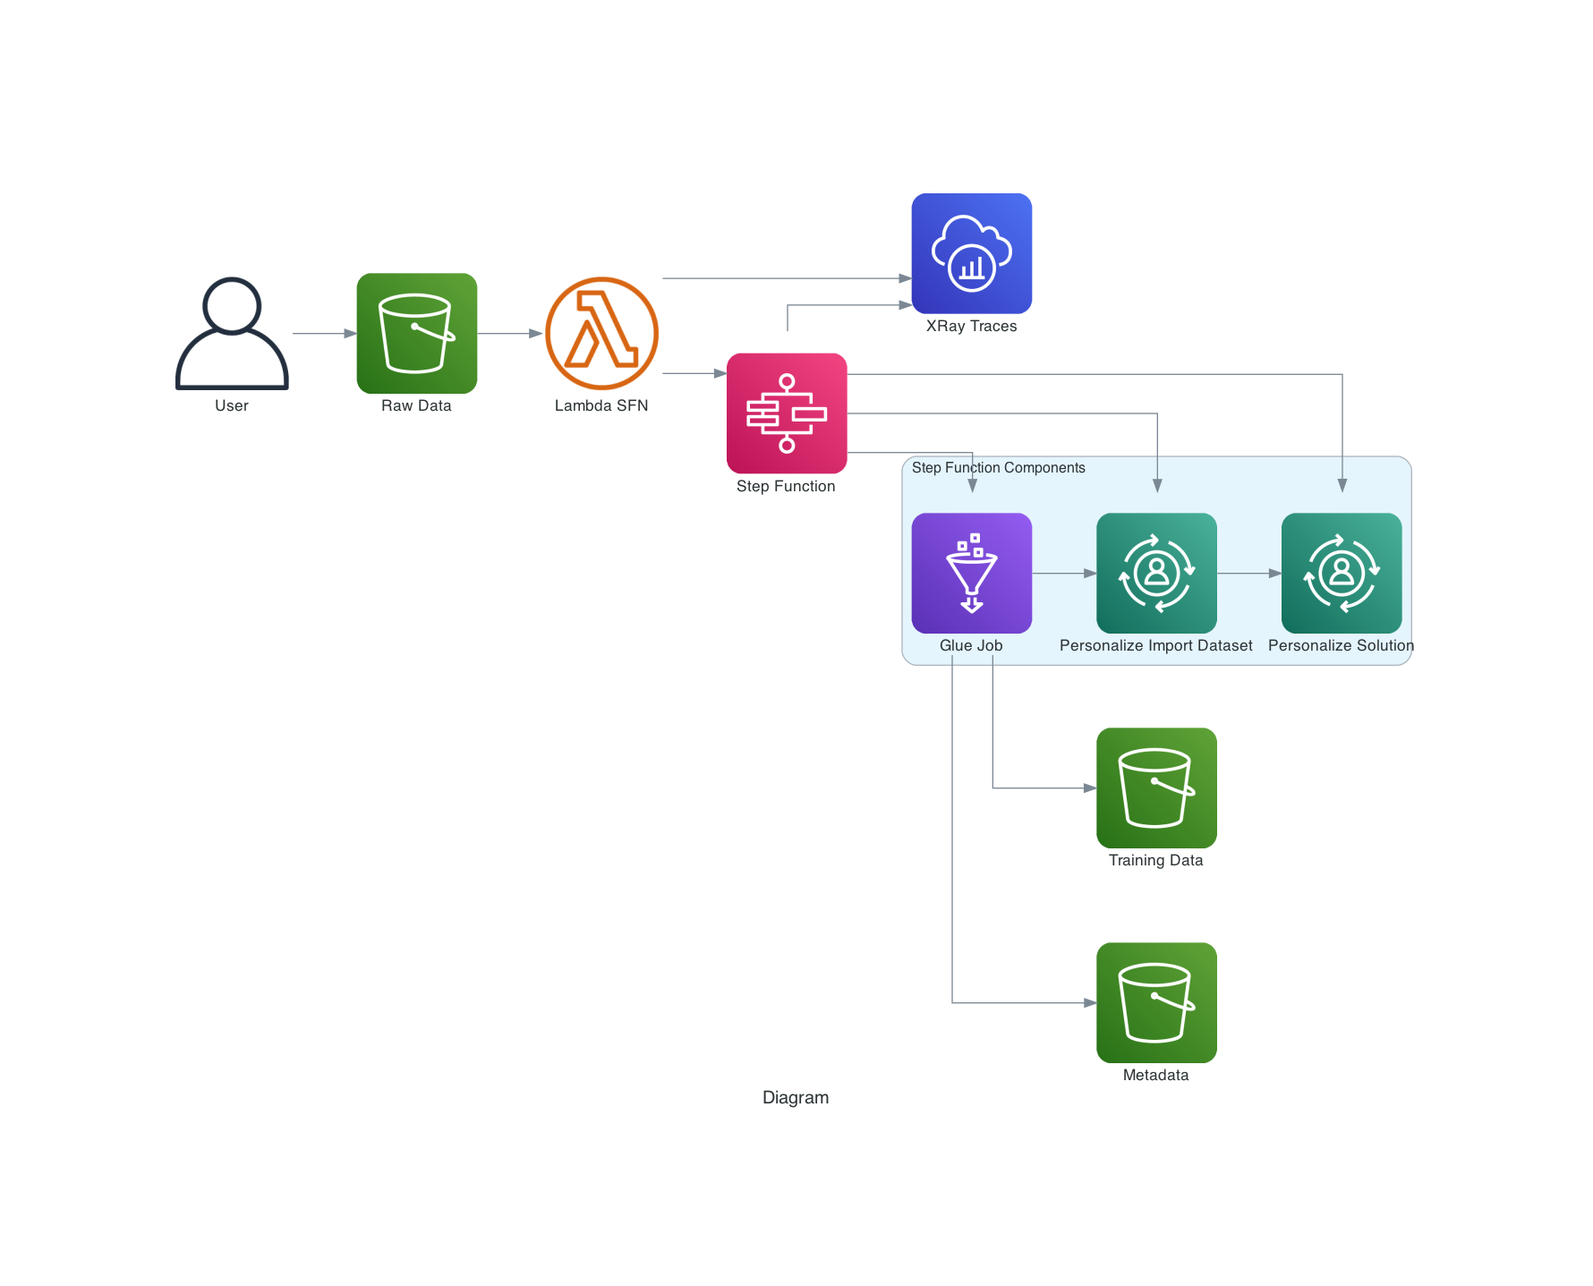
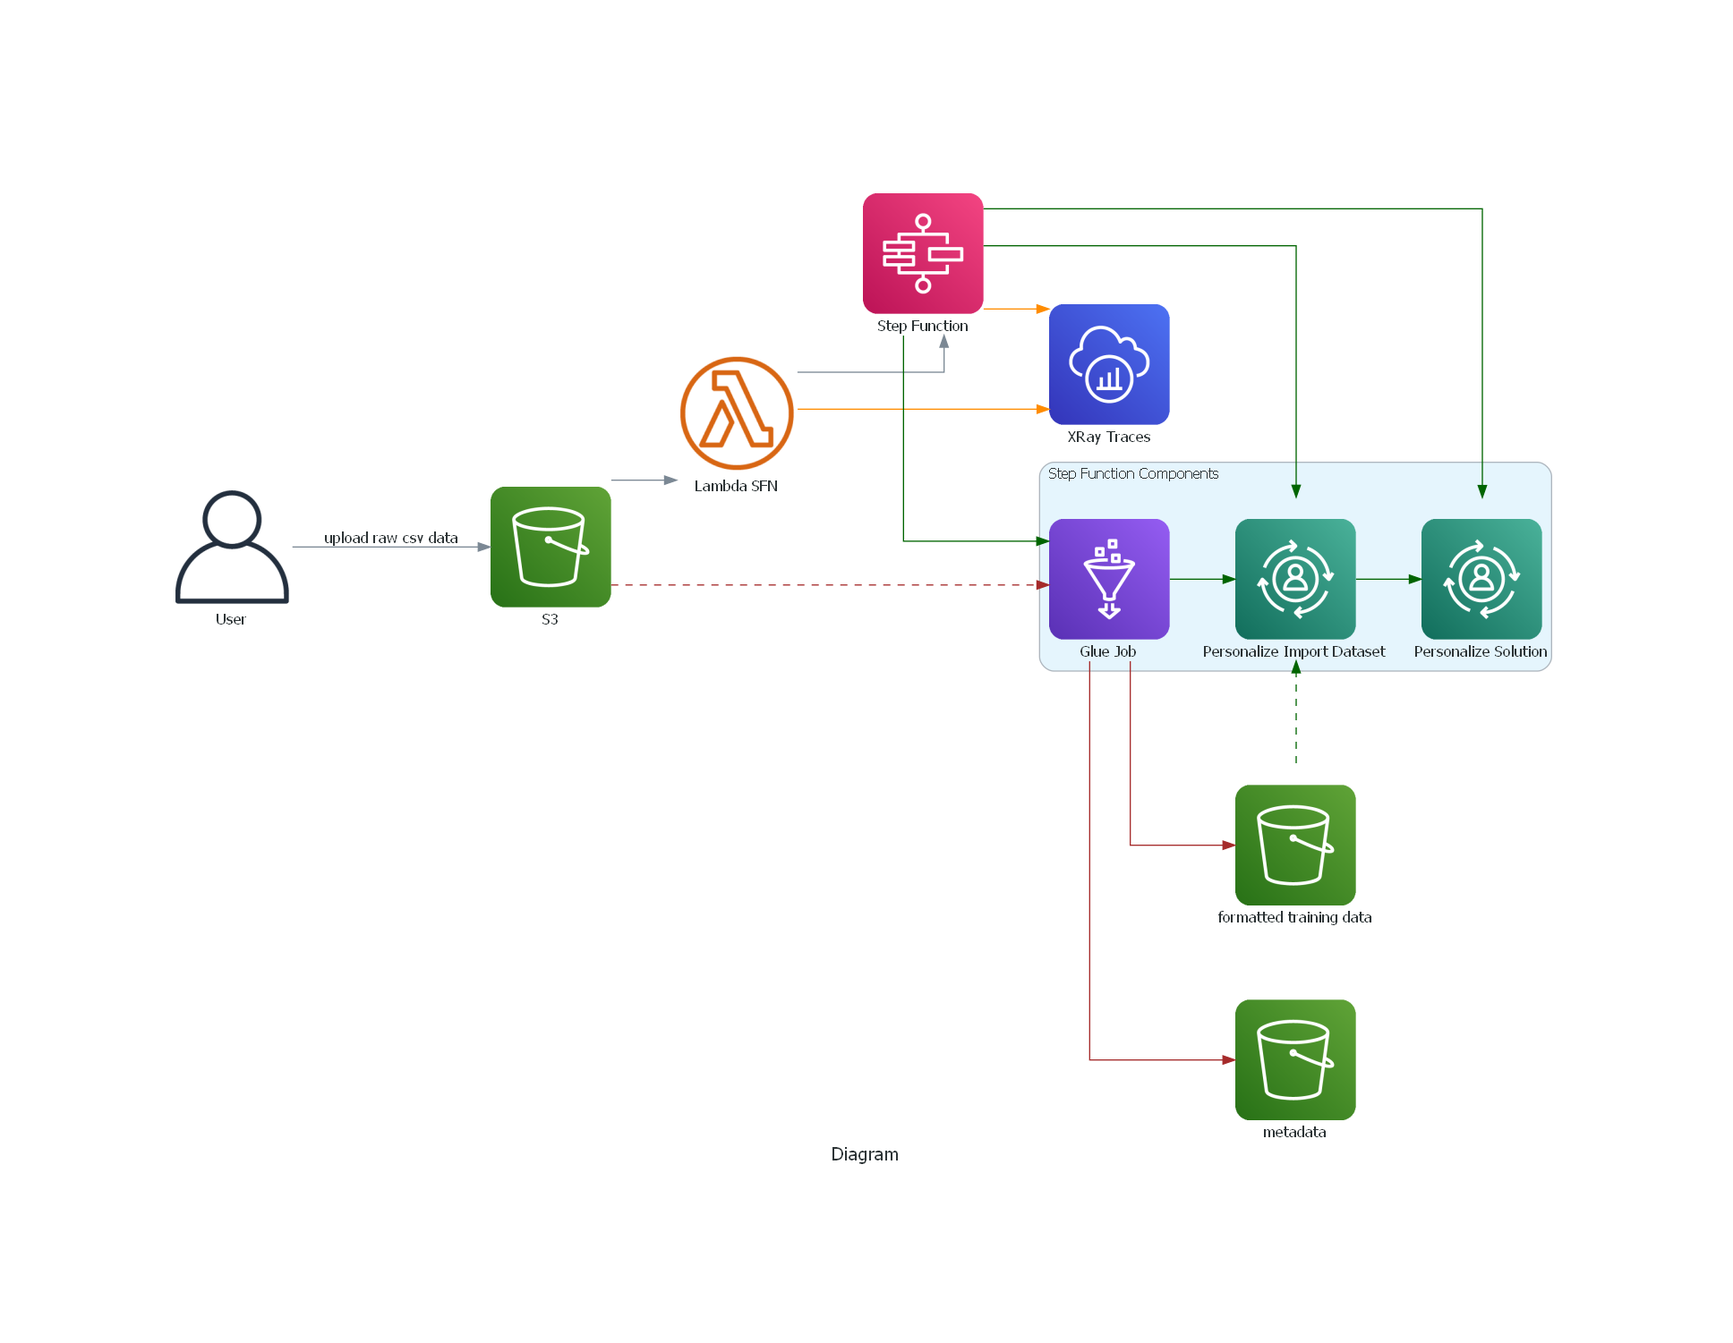
add more screenshots, add to readme, modify aws diagrams script for train architecture and cf template add param

diff --git a/screenshots/aws_diagrams/personalize_train.py b/screenshots/aws_diagrams/personalize_train.py
@@ -2,7 +2,6 @@ from diagrams import Diagram, Cluster, Edge
 from diagrams.aws.compute import LambdaFunction
 from diagrams.aws.storage import SimpleStorageServiceS3
 from diagrams.aws.ml import Personalize
-from diagrams.aws.integration import SQS
 from diagrams.aws.analytics import Glue
 from diagrams.aws.devtools import XRay
 from diagrams.aws.general import User
@@ -11,9 +10,9 @@ from diagrams.aws.integration import StepFunctions
 
 with Diagram("Diagram", show=False, direction="LR"):
     Lambda_SFN = LambdaFunction("Lambda SFN")
-    S31 = SimpleStorageServiceS3("Raw Data")
-    S32 = SimpleStorageServiceS3("Training Data")
-    S33 = SimpleStorageServiceS3("Metadata")
+    S31 = SimpleStorageServiceS3("S3")
+    S32 = SimpleStorageServiceS3("formatted training data")
+    S33 = SimpleStorageServiceS3("metadata")
     User1 = User("User")
     Xray = XRay("XRay Traces")
     StepFunctions = StepFunctions("Step Function")
@@ -23,11 +22,15 @@ with Diagram("Diagram", show=False, direction="LR"):
         ImportDataset = Personalize("Personalize Import Dataset")
         Solution = Personalize("Personalize Solution")
         sfn_components = [Glue, ImportDataset, Solution]
-        Glue >> ImportDataset >> Solution
-        Glue >> S32
-        Glue >> S33
+        S31 >> Edge(color="brown", style="dashed") >> Glue
+        Glue >> Edge(color="darkgreen") >> ImportDataset >> Edge(
+            color="darkgreen"
+        ) >> Solution
+        Glue >> Edge(color="brown") >> S32
+        Glue >> Edge(color="brown") >> S33
+        S32 >> Edge(color="darkgreen", style="dashed") >> ImportDataset
 
-    User1 >> S31 >> Lambda_SFN >> StepFunctions
-    StepFunctions >> sfn_components
-    StepFunctions >> Xray
-    Lambda_SFN >> Xray
+    User1 >> Edge(label="upload raw csv data") >> S31 >> Lambda_SFN >> StepFunctions
+    StepFunctions >> Edge(color="darkgreen") >> sfn_components
+    StepFunctions >> Edge(color="darkorange") >> Xray
+    Lambda_SFN >> Edge(color="darkorange") >> Xray

diff --git a/projects/personalize/README.md b/projects/personalize/README.md
@@ -27,7 +27,7 @@ Archive:  datasets/personalize/ml-25m.zip
 
 ```
 
- ## Loading data into S3 
+## Loading data into S3 
 
 For this tutorial, we will be using the full 25m MovieLens dataset (25 million ratings and one million tag applications applied to 62,000 movies by 162,000 users).
 This can result in a large bill when training a personalize solution, depending on the recipe used (> $100).
@@ -38,7 +38,6 @@ The following example sets Status=Enabled to enable Transfer Acceleration on a b
 
 ```
 $ aws s3api put-bucket-accelerate-configuration --bucket recommendation-sample-data --accelerate-configuration Status=Enabled
-
 ```
 
 It's a best practice to use aws s3 commands (such as aws s3 cp) for multipart uploads and downloads, because these aws s3 commands automatically perform multipart uploading and downloading based on the file size
@@ -54,6 +53,7 @@ The following example uploads a file to a bucket enabled for Transfer Accelerati
 $ aws configure set default.s3.use_accelerate_endpoint true
 $ aws configure set default.s3.max_concurrent_requests 20
 $ aws s3 cp datasets/personalize/ml-25m/ s3://recommendation-sample-data/movie-lens/raw_data/ --region us-east-1 --recursive --endpoint-url https://recommendation-sample-data.s3-accelerate.amazonaws.com
+
 
 upload: datasets\personalize\ml-25m\links.csv to s3://recommendation-sample-data/movie-lens/links.csv
 upload: datasets\personalize\ml-25m\input\movies.csv to s3://recommendation-sample-data/movie-lens/movies.csv
@@ -71,30 +71,16 @@ the query accordingly. Run the following commands from root of the repo
 
 ```
 $ aws s3 cp step_functions/personalize-definition.json s3://recommendation-sample-data/movie-lens/personalize-definition.json
-
-upload: step_functions/personalize-definition.json to s3://recommendation-sample-data/movie-lens/personalize-definition.json
-
-```
-
-```
 $ aws s3 cp lambdas/trigger_glue_personalize.zip s3://recommendation-sample-data/movie-lens/lambda/trigger_glue_personalize.zip
-
-upload: lambdas\trigger_glue_personalize.zip to s3://recommendation-sample-data/movie-lens/lambda/trigger_glue_personalize.zip
-
 ```
+
+If you have not configured transfer acceleration for the default glue assets bucket, then you can set to false before running `cp` command as below.
+Otherwise, you will get the following error: *An error occurred (InvalidRequest) when calling the PutObject operation: S3 Transfer Acceleration is not configured on this bucket*
 
 ```
 $ aws configure set default.s3.use_accelerate_endpoint false
 $ aws s3 cp projects/personalize/glue/Personalize_Glue_Script.py s3://aws-glue-assets-376337229415-us-east-1/scripts/Personalize_Glue_Script.py
-
-upload: projects\personalize\glue\Personalize_Glue_Script.py to s3://aws-glue-assets-376337229415-us-east-1/scripts/Personalize_Glue_Script.py
-
 ```
-
-If not configured transfer acceleration for the default glue assets bucket then can set to false before running cp command.
-Otherwise, you will get the error
-`An error occurred (InvalidRequest) when calling the PutObject operation: S3 Transfer Acceleration is not configured on this bucket`
-
 
 ## CloudFormation Templates
 
@@ -142,12 +128,10 @@ sfn name `GlueETLPersonalizeTraining`
 
 We need to configure S3 event notifications for train and prediction workflows:
 
-* Training workflow
-
+* **Training workflow**
 - S3 to lambda notification (for put raw data object event) to trigger the step function execution for the train workflow
 
-* Batch/RealTime Recommendations
-
+* **Batch/RealTime Recommendations**
 1. S3 to Lambda notification for triggering Personalize Batch Job when batch sample data object but into S3 bucket prefix
 2. S3 to Lambda notification for triggering lambda to transform output of batch job added to S3. 
 3. S3 notification to SNS topic, when the output of lambda transform lands in S3 bucket. We have configured email as subscriber 
@@ -183,7 +167,7 @@ INFO:__main__:HTTPStatusCode: 200
 INFO:__main__:RequestId: Q0BCATSW52X1V299
 ```
 
-Note: There is currently not support for notifications to FIFO type SNS topics. 
+**Note**: There is currently not support for notifications to FIFO type SNS topics. 
 
 ## Trigger Workflow for Training Solution
 
@@ -258,7 +242,7 @@ Once the notebook has finished running, you should see two folders in `s3://reco
 Each of these will contain a csv file corresponding to the interactions data (which will be used for training solution) and 
 additional metadata (i.e. columns with movie genres, ratings etc)
 
-NOTE: The notebook by default samples half the number of rows in the ratings csv which is still around 12.5 million rows.
+**Note**: The notebook by default samples half the number of rows in the ratings csv which is still around 12.5 million rows.
 This can result in a large bill if training a model (as mentioned in previous section).
 You may want to adjust the fraction parameter to sample method, to a lower value (e.g. 0.05) and check the ratings 
 dataframe row count afterwards.
@@ -294,7 +278,7 @@ values as in the screenshot below and then click `Create and train solution`
 * Advanced Configuration - Turn on 'Perform HPO'. Leave the other parameter values as it is.
 
 The User-Personalization (aws-user-personalization) recipe is optimized for all User_Personalization recommendation scenarios. 
-When recommending items, this recipe uses automatic item exploration. [Reference](https://docs.aws.amazon.com/personalize/latest/dg/native-recipe-new-item-USER_PERSONALIZATION.html)
+When recommending items, this recipe uses automatic item exploration [Ref](https://docs.aws.amazon.com/personalize/latest/dg/native-recipe-new-item-USER_PERSONALIZATION.html)
 
 ![](../../screenshots/personalize/create_solution_console.png)
 
@@ -310,7 +294,7 @@ For USER_SEGMENTATION recipes, the training set consists of 80% of each user's i
 For all other recipe types, the training set consists of 90% of your users and their interactions data. The testing set consists of the remaining 10% of users and their interactions data.
 Amazon Personalize then creates the solution version using the training set. After training completes, Amazon Personalize gives the new solution version the oldest 90% of each user’s 
 data from the testing set as input. Amazon Personalize then calculates metrics by comparing the recommendations the solution version generates to the actual interactions in the 
-newest 10% of each user’s data from the testing set. https://docs.aws.amazon.com/personalize/latest/dg/working-with-training-metrics.html
+newest 10% of each user’s data from the testing set [Ref](https://docs.aws.amazon.com/personalize/latest/dg/working-with-training-metrics.html)
 
 ![](../../screenshots/personalize/personalize_solution_user-personalization_recipe_with_HPO.png)
 
@@ -327,36 +311,33 @@ python projects/personalize/evaluate_solution.py --solution_version_arn <solutio
 
 The above metrics are described below :
 
-* coverage : An evaluation metric that tells you the proportion of unique items that Amazon Personalize might recommend using your model 
+**coverage**
+An evaluation metric that tells you the proportion of unique items that Amazon Personalize might recommend using your model 
 out of the total number of unique items in Interactions and Items datasets. To make sure Amazon Personalize recommends more of your items, 
 use a model with a higher coverage score. Recipes that feature item exploration, such as User-Personalization, have higher coverage than those that 
-don’t, such as popularity-count [Refrence](https://docs.aws.amazon.com/personalize/latest/dg/working-with-training-metrics.html)
-
-* mean reciprocal rank at 25
+don’t, such as popularity-count [Ref](https://docs.aws.amazon.com/personalize/latest/dg/working-with-training-metrics.html)
+**mean reciprocal rank at 25**
 An evaluation metric that assesses the relevance of a model’s highest ranked recommendation. Amazon Personalize calculates this metric 
 using the average accuracy of the model when ranking the most relevant recommendation out of the top 25 recommendations over all requests for recommendations.
-This metric is useful if you're interested in the single highest ranked recommendation. [Refrence](https://docs.aws.amazon.com/personalize/latest/dg/working-with-training-metrics.html)
-
-
-* normalized discounted cumulative gain (NCDG) at K (5/10/25)
+This metric is useful if you're interested in the single highest ranked recommendation [Ref](https://docs.aws.amazon.com/personalize/latest/dg/working-with-training-metrics.html)
+**normalized discounted cumulative gain (NCDG) at K (5/10/25)**
 An evaluation metric that tells you about the relevance of your model’s highly ranked recommendations, where K is a sample size of 5, 10, or 25 recommendations. 
 Amazon Personalize calculates this by assigning weight to recommendations based on their position in a ranked list, where each recommendation is 
 discounted (given a lower weight) by a factor dependent on its position. The normalized discounted cumulative gain at K assumes that recommendations that 
 are lower on a list are less relevant than recommendations higher on the list.
 Amazon Personalize uses a weighting factor of 1/log(1 + position), where the top of the list is position 1.
-This metric rewards relevant items that appear near the top of the list, because the top of a list usually draws more attention.[Refrence](https://docs.aws.amazon.com/personalize/latest/dg/working-with-training-metrics.html)
-
-* precision at K
+This metric rewards relevant items that appear near the top of the list, because the top of a list usually draws more attention.[Ref](https://docs.aws.amazon.com/personalize/latest/dg/working-with-training-metrics.html)
+**precision at K**
 An evaluation metric that tells you how relevant your model’s recommendations are based on a sample size of K (5, 10, or 25) recommendations. 
 Amazon Personalize calculates this metric based on the number of relevant recommendations out of the top K recommendations, divided by K, 
-where K is 5, 10, or 25. This metric rewards precise recommendation of the relevant items. [Reference](https://docs.aws.amazon.com/personalize/latest/dg/working-with-training-metrics.html)
+where K is 5, 10, or 25. This metric rewards precise recommendation of the relevant items [Ref](https://docs.aws.amazon.com/personalize/latest/dg/working-with-training-metrics.html)
 
   
 ## Creating Campaign for realtime recommendations
 
 A campaign is a deployed solution version (trained model) with provisioned dedicated transaction capacity for creating 
 real-time recommendations for your application users.  After you complete Preparing and importing data and Creating a solution, you are ready to 
-deploy your solution version by creating an AWS Personalize Campaign [Refrence](https://docs.aws.amazon.com/personalize/latest/dg/campaigns.html)
+deploy your solution version by creating an AWS Personalize Campaign [Ref](https://docs.aws.amazon.com/personalize/latest/dg/campaigns.html)
 If you are getting batch recommendations, you don't need to create a campaign.
 
 ```
@@ -368,7 +349,7 @@ $ python projects/personalize/deploy_solution.py --campaign_name MoviesCampaign 
 ```
 
 An additional arg `--config` can be passed, to set the **explorationWeight** and **explorationItemAgeCutOff** parameters for the user
-personalizaion recipe [Reference](https://docs.aws.amazon.com/personalize/latest/dg/native-recipe-new-item-USER_PERSONALIZATION.html#bandit-hyperparameters)
+personalizaion recipe [Ref](https://docs.aws.amazon.com/personalize/latest/dg/native-recipe-new-item-USER_PERSONALIZATION.html#bandit-hyperparameters)
 These parameters default to 0.3 and 30.0 respectively if not passed (as in previous example)
 To set the explorationWeight and ItemAgeCutoff to 0.6 and 100 respectively, run the script as below:
 
@@ -387,12 +368,12 @@ $ python projects/personalize/deploy_solution.py --campaign_name MoviesCampaign 
 
 With the User-Personalization recipe, Amazon Personalize generates scores for items based on a user's interaction data and metadata. 
 These scores represent the relative certainty that Amazon Personalize has in whether the user will interact with the item next. 
-Higher scores represent greater certainty.[Reference](https://docs.aws.amazon.com/personalize/latest/dg/recommendations.html)
+Higher scores represent greater certainty.[Ref](https://docs.aws.amazon.com/personalize/latest/dg/recommendations.html)
 
 Amazon Personalize scores all the items in your catalog relative to each other on a scale from 0 to 1 (both inclusive), so that the total of 
 all scores equals 1. For example, if you're getting movie recommendations for a user and there are three movies in the Items dataset, 
 their scores might be 0.6, 0.3, and 0.1. Similarly, if you have 1,000 movies in your inventory, the highest-scoring movies might have very 
-small scores (the average score would be.001), but, because scoring is relative, the recommendations are still valid.[Reference](https://docs.aws.amazon.com/personalize/latest/dg/recommendations.html)
+small scores (the average score would be.001), but, because scoring is relative, the recommendations are still valid.[Ref](https://docs.aws.amazon.com/personalize/latest/dg/recommendations.html)
 
 
 To get batch recommendations, you use a batch inference job. A batch inference job is a tool that imports your batch input data from an Amazon 
@@ -403,7 +384,7 @@ job when you want to get batch item recommendations for your users or find simil
 To get user segments, you use a batch segment job. A batch segment job is a tool that imports your batch input data from an Amazon
 S3 bucket, uses your solution version trained with a USER_SEGMENTATION recipe to generate user segments for each row of input 
 data, and exports the segments to an Amazon S3 bucket. Each user segment is sorted in descending order based on the probability that 
-each user will interact with items in your inventory. [Reference](https://docs.aws.amazon.com/personalize/latest/dg/recommendations-batch.html)
+each user will interact with items in your inventory. [Ref](https://docs.aws.amazon.com/personalize/latest/dg/recommendations-batch.html)
 
 The input data in S3 needs to be a json file with the data in a specific format as specified [here](https://docs.aws.amazon.com/personalize/latest/dg/batch-data-upload.html#batch-recommendations-json-examples)
 For this example we will use a sample as in `datasets\personalize\ml-25m\batch\input\users.json` and upload this to S3 bucket `recommendation-sample-data` in
@@ -496,13 +477,38 @@ and `datasets/personalize/ml-25m/batch/results/transformed.parquet`
 
 You can also get real-time recommendations from Amazon Personalize with a campaign created earlier to give movie recommendations.
 To increase recommendation relevance, include contextual metadata for a user, such as their device type or the time of day, 
-when you get recommendations or get a personalized ranking.[Reference](https://docs.aws.amazon.com/personalize/latest/dg/getting-real-time-recommendations.html)
+when you get recommendations or get a personalized ranking [Ref](https://docs.aws.amazon.com/personalize/latest/dg/getting-real-time-recommendations.html)
 
 The API Gateway integration with lambda backend, should already be configured if cloudformation was run successfully.
-The API endpoint to be invoked should be visible from the console, under the stage tab.
-We have configured the method request to accept a querystring parameter `user_id` and defined model schema.
-We configured a mapping template for API Gateway to map the method request querystring parameter to the JSON payload, as required by the backend Lambda function.
+We have configured the method request to accept a querystring parameter *user_id* and defined model schema.
+An API method can be integrated with Lambda using one of two [integration methods](https://docs.aws.amazon.com/apigateway/latest/developerguide/set-up-lambda-integrations.html),
+*Lambda proxy integration* or *Lambda non-proxy (custom) integration*. By default, we used [Lambda Proxy Integration](https://docs.aws.amazon.com/apigateway/latest/developerguide/set-up-lambda-proxy-integrations.html) 
+in cloudformation template *personalize_predict.yaml*, which allows the client to call a single lambda function in the backend. When a client submits a request, API Gateway sends the raw request to lambda 
+without necessarily preserving the order of the parameters. This request data includes the request headers, query string parameters, URL path variables, payload, and API configuration 
+data [Ref](https://docs.aws.amazon.com/apigateway/latest/developerguide/set-up-lambda-proxy-integrations.html).
+We could also use [Lambda non-proxy integration](https://docs.aws.amazon.com/apigateway/latest/developerguide/set-up-lambda-custom-integrations.html)  by setting the template parameter *APIGatewayIntegrationType* 
+to AWS. The difference to the Proxy Integration method is that in addition, we also need to configure a mapping template to map the incoming request data  to the integration request, 
+as required by the backend Lambda function. In the cloudformation template *personalize_predict.yaml*, this is already predefined in the *RequestTemplates* property of the *ApiGatewayRootMethod* resource, 
+which  translates the user_id query string parameter to the user_id property of the JSON payload. This is necessary because input to a Lambda function in the Lambda function must be expressed in the body. 
+However, as the default type is set to *AWS_PROXY*, the mapping template is ignored as it is not required.
 
+![](../../screenshots/personalize/api-gateway-get-method-execution.png)
+
+The API endpoint URL to be invoked should be visible from the console, under the stage tab.
+
+![](../../screenshots/personalize/api-gateway-dev-stage-console.png)
+
+The API can be tested by opening a browser and typing the URL  into a browser address bar along with the querystring parameters. 
+For example: *https://knmel67a1g.execute-api.us-east-1.amazonaws.com/dev?user_id=5*
+
+For monitoring, we have also configured API gateway to send traces to XRay and logs to Cloudwatch.
+Since the API is integrated with a single lambda function, you will see nodes in the service map containing information about the overall time spent and other performance
+metrics in the API Gateway service, the Lambda service, and the Lambda function. The timeline shows the hierarchy of segments and subsegments.  Further details on 
+request/response times and faults/errors can be found by clicking on each segment/subsegment in the timeline.
+For more information refer to [AWS docs](https://docs.aws.amazon.com/apigateway/latest/developerguide/apigateway-using-xray-maps.html)
+
+
+![](../../screenshots/personalize/Xrayconsole-APIGateway-lambda-trace-timeline.png)
 
 ### Running in Local Mode
 
